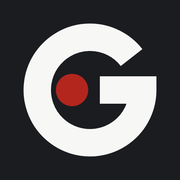
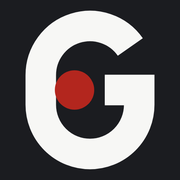
Crest v2: a running-track G in three lines, and a livelier football
Salah: "Have the football look more interesting & unique. The G isn't great either."
The G is now a stadium / running track seen from above, drawn as three parallel lines like the lined R of the Ranoo crests. The ball has a red hub,
ink patches, a tilt and a shaded side, and speed lines behind it; the first O of GOLBOARD in the name band is the ball too.
Main crest: ball kicked in beside the G (the Ranoo split). Alternatives: red band, and one big G with the ball on its pitch.
Favicon and home-screen icon: a solid track G with a red ball.

Claude-Session: https://claude.ai/code/session_019Lp24oHKRCC8Twtc6hch7R

Changed region(s): [[0.1111, 0.0556, 0.8889, 0.9444]]

diff --git a/tests/favicon.test.ts b/tests/favicon.test.ts
@@ -7,7 +7,7 @@ import { build } from "../scripts/api/build.mjs";
 import { pages } from "../scripts/api/pages.mjs";
 
 // Salah, 2026-11-12: "change the favicon ... create a logo much like how I created a football logo for Ranoo". The old icon was a black circle with a white
-// triangle. The new one is the Golboard crest family: a shield with a G and a red ball (public/favicon.svg, an .ico for old browsers, a home-screen icon).
+// triangle. The new one is the Golboard crest family: a shield with a track-shaped G and a red ball (public/favicon.svg, an .ico for old browsers, a home-screen icon).
 const dirs: string[] = [];
 const tmp = () => { const d = mkdtempSync(join(tmpdir(), "golboard-icon-")); dirs.push(d); return d; };
 afterAll(() => { while (dirs.length) rmSync(dirs.pop()!, { recursive: true, force: true }); });
@@ -36,8 +36,8 @@ describe("the icon files", () => {
     expect([png.readUInt32BE(16), png.readUInt32BE(20)]).toEqual([180, 180]);
   });
 
-  it("the full crest is kept as a logo, in the ink and the red-band versions", () => {
-    for (const name of ["brand/golboard-crest.svg", "brand/golboard-crest-red.svg"]) {
+  it("the full crest is kept as a logo: the main one, a red-band one and a one-big-G one", () => {
+    for (const name of ["brand/golboard-crest.svg", "brand/golboard-crest-red.svg", "brand/golboard-crest-one-g.svg"]) {
       const svg = file(name).toString("utf8");
       expect(svg).toContain("<title>Golboard crest</title>");
       expect(svg).not.toMatch(/<text|font-family/i);
